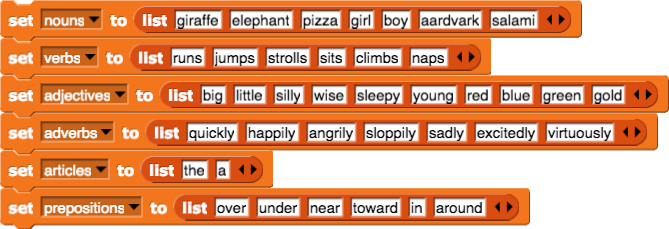
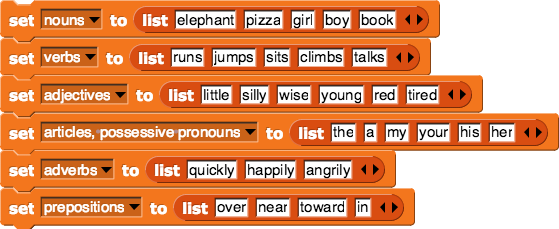
U3L1 more

diff --git a/cur/programming/3-lists/1-introduction-to-lists/2-sentence-builder.html b/cur/programming/3-lists/1-introduction-to-lists/2-sentence-builder.html
@@ -20,8 +20,8 @@
         <div class="forYouToDo" id="first">
             <ol>
                 <li>Click on the script below to see it in <span class="snap">snap</span><br />
-                    <a class="run" href="/bjc-r/prog/3-lists/U3Lab1Sentence.xml"> <img class="indent" src="/bjc-r/img/3-lists/wordlists.png" alt="lists of nouns, verbs, etc." title="lists of nouns, verbs, etc." /> </a> <br />
-                    Customize the lists by adding your own nouns, verbs, and so on.
+                    <a class="run" href="/bjc-r/prog/3-lists/U3Lab1Sentence.xml"> <img src="/bjc-r/img/3-lists/wordlists.png" alt="lists of nouns, verbs, etc." title="lists of nouns, verbs, etc." /> </a> <br />
+                    Feel free to change these lists to use your own nouns, verbs, and so on.
                 </li>
             </ol>
         </div>
@@ -36,25 +36,25 @@
                 <div class="stagedir">Betty makes: <img border="0" src="/bjc-r/img/3-lists/joinwords_wholelists.png" alt="join words(articles, nouns, verbs)" title="join words(articles, nouns, verbs)"></div>
             <div><span>Alphie:</span> Looks good to me. Click it. What happens?</div>
                 <div class="stagedir">Betty clicks and they see <img border="0" src="/bjc-r/img/3-lists/joinwords_wholelistsresult.png" alt="all articles nouns verbs joined" title="all articles nouns verbs joined"></div>
-            <div><span>Betty:</span> Wha...? Oh, these are <em>all</em> the words in the lists. How do we get just one item from each list?</div>
+            <div><span>Betty:</span> Wha...? Oh, these are <em>all</em> the words in the lists. We want to get just one  item, at random, from each list.</div>
         </div>
         
         <div class="forYouToDo">
-			<div class="sidenote">The phrases won't make sense necessarily. For example, <code>noun phrase</code> might generate "a sleepy pizza".</div>
+			<div class="sidenote">The phrases won't make sense necessarily. For example, <code>noun phrase</code> might generate &quot;a tired pizza.&quot;</div>
             <ol start="2">  
                 <li>Fix Alphie and Betty's script.</li>
                 
                 <li>
-                	In this problem, you will make a sentence-builder that makes complicated sentences like "the little elephant runs excitedly around the big pizza". To do this, use abstraction:
-                	<ol>
-                    	<li>
+                	In this problem, you will make a sentence-builder that makes complicated sentences like "the little elephant runs happily around the wise pizza." To do this, use abstraction:
+<ol>
+<li>
               				First, use your words to make phrases. Make three reporters <img border="0" src="/bjc-r/img/3-lists/noun_phrase.png" alt="green noun phrase reporter block" title="green noun phrase reporter block"> <img border="0" src="/bjc-r/img/3-lists/prep_phrase.png" alt="green prepositional phrase reporter block" title="green prepositional phrase reporter block"> and <img border="0" src="/bjc-r/img/3-lists/verb_phrase.png" alt="green verb phrase reporter block" title="green verb phrase reporter block">. Here are some sample outputs:
                             <ul>
             					<div class="comment">We might need some support here for ELLs. --MF</div>
-                                <li><code>noun phrase</code>: "the little boy" "a green giraffe"</li>
+                                <li><img border="0" src="/bjc-r/img/3-lists/noun_phrase.png" alt="green noun phrase reporter block" title="green noun phrase reporter block"> will combine <em>one</em> article (or possessive pronoun) with <em>one</em> adjective and <em>one</em> noun to create phrases like "the little boy" "a green giraffe" or "our old sandwich." </li>
 								<div class="sidenote">You can use abstraction within this block.  A prepositional phrase is a preposition plus a&nbsp;...</div>
-                                <li><code>prepositional phrase</code>: "near the little boy" "in a wise pizza"</li>
-                                <li><code>verb phrase</code>: "jumps sadly" "naps quickly"</li>
+                                <li><img border="0" src="/bjc-r/img/3-lists/prep_phrase.png" alt="green prepositional phrase reporter block" title="green prepositional phrase reporter block"> will combine <em>one</em> preposition with one <img border="0" src="/bjc-r/img/3-lists/noun_phrase.png" alt="green noun phrase reporter block" title="green noun phrase reporter block">: "near the little boy" "over a wise pizza" </li>
+                                <li><img border="0" src="/bjc-r/img/3-lists/verb_phrase.png" alt="green verb phrase reporter block" title="green verb phrase reporter block"> will combine a verb and an adverb: "jumps sadly" "naps quickly" "thinks sleepily."</li>
                             </ul>
                         </li>
                         <li>Then, make a reporter <img border="0" src="/bjc-r/img/3-lists/sentence.png" alt="green sentence reporter block" title="green sentence reporter block"> that joins these phrases.</li>
@@ -66,11 +66,12 @@
     
         <div class="takeItFurther">
             <ol type="A">
-                <li>Create an even-more-complicated sentence-builder. Some ideas to try:
+                <li>Create more flexible sentence-builder. Some ideas to try:
                     <ul style="list-style:lower-roman;">
-                        <li>Randomly vary the order of the phrases (but only in ways that make grammatical sentences)</li>
-                        <li>Occasionally include people's names instead of article-adjective-noun phrases</li>
-                        <li>Pandomly vary the number of adjectives that appear in a phrase</li>
+                        <li>Noun phrases don't always have to have one adjective. They can have none. Or two. </li>
+                        <li>Find a way to create questions. The sentence could start with "Why does" or "Did" or...</li>
+                        <li>Occasionally include people's names instead of article-adjective-noun phrases.</li>
+                        <li>Use your <code>plural</code> block from U2Lab1-Plural to let your nouns sometimes be plural. Your program will need to keep track of when it makes a plural noun so that it can fix the verb to agree.</li>
                     </ul>
                 </li>
             </ol>
